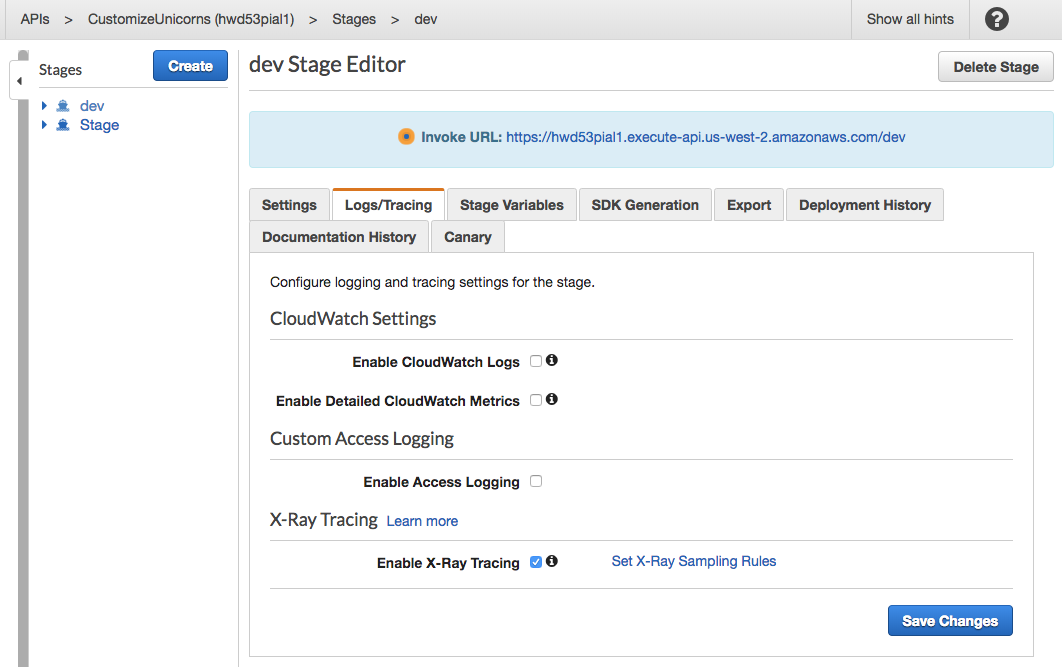
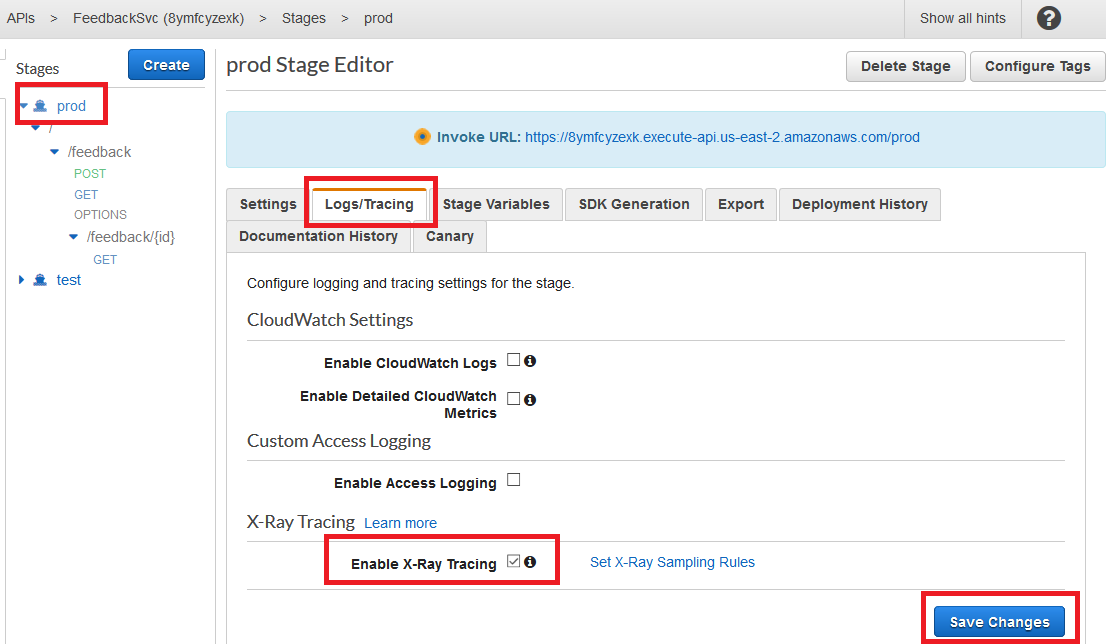
move x-ray up

Changed region(s): [[0.1864, 0.0, 1.0, 0.9317], [0.0, 0.0, 0.404, 1.0], [0.8079, 0.9006, 0.9944, 1.0]]

diff --git a/docs/xray.md b/docs/xray.md
@@ -3,121 +3,66 @@ Time Estimate: 10 - 15 minutes
 
 "Insufficient Logging & Monitoring" is one of the Top 10 Application Security Risks ranked by [OWASP](https://www.owasp.org/index.php/Main_Page) in 2017. 
 
+## Tracing via AWS X-Ray
 AWS X-Ray gives you visibility into the data flow of your microservices architecture and a map of how your application’s underlying components are connected. It's a great tool to troubleshoot performance and debug errors. However, given the ephemeral nature of the infrastructure in a serverless application, this visibility into your application is also critical for the purpose of security:
 
 * It helps you understand the "norm" of the data flow, interdependencies, and performance characteristics of your distributed serverless components. Knowing that is a prerequisite of recognoizing when things are not normal. 
 * During an security incident or post analysis, X-Ray can give you insights into what your code is doing at runtime, what downstream dependency it's making calls to, where the code is spending its time
  
 
-## Capturing AWS SDK requests with XRay
+## Capturing metrics with X-Ray
 
-When our applications makes calls to AWS services such as Secrets Manager, DynamoDB, S3 etc., the X-Ray SDK can help tracks the calls downstream and record the request timing, status, etc. about the AWS Service call. 
+When our applications makes calls to AWS services or databases etc., the X-Ray SDK can help to track the calls downstream and record the request timing, status, etc.
 
-To enable this, you can instrument all AWS SDK clients by wrapping your `aws-sdk` require statement in a call to `AWSXRay.captureAWS`
-	
-### Capturing AWS SDK requests in the Lambda authorizer
-	
-The Lambda authorizer you added in [**Module 1: Auth**](../01-add-authentication) uses the AWS SDK to look up values from a DynamoDB table. We can instrument the AWS SDK with X-Ray:
+To enable this, you can instrument your code to send the data to the X-Ray daemon.
 
-1. Install the XRay SDK in the `authorizer/` folder by running in a terminal
+Since our backend is a Java Spring boot application, we followed the steps at [AOP with Spring and the X-Ray SDK for Java](https://docs.aws.amazon.com/xray/latest/devguide/xray-sdk-java-aop-spring.html) to instrument our backend code.
 
-	```bash
-	cd	~/environment/aws-serverless-security-workshop/src/authorizer 
-	npm install aws-xray-sdk-core --save
-	```
-	
-1. In `authorizer/index.js`, find the line where the AWS SDK is imported: 
+If you have already downloaded the source code in the previous module, you can right click the __src__ folder for the backend code and search __xray__. You will have the follow search results. Feel free to double click the resutls and view the code.
 
-	```javascript
-	const AWS = require('aws-sdk');
-	```
-	
-	And replace it with:
-	
-	```javascript
-	const AWSXRay = require('aws-xray-sdk-core');
-	const AWS = AWSXRay.captureAWS(require('aws-sdk'));
-	```
+You can see we created the class XRayInspector and used __@XRayEnabled__ annotation to enable X-Ray tracing. X-Ray tracing has a very low overhead. You can leave it enabled in most situations even for your production environment.
 
-### Capturing AWS SDK requests in the backend lambda functions
+![Cloud9 x-ray](../screenshots/xray-c9.png)
 
-<details>
-<summary><strong>If you haven't gone through Module 2: Secrets </strong></summary><p>
+**[Optional step: verify X-Ray daemon]**
 
-The backend lambda functions currently doesn't use the AWS SDK, so no additional action needed! 
+The X-Ray daemon has already been installed in the backend EC2 instance. We have added the IAM permission to allow the daemon sending data to the X-Ray service. You can verify if the daemon and application running via session manager.
 
-</details>
+1. Open session manager, which is under the [__AWS Systems Manager__ console](https://console.aws.amazon.com/systems-manager/session-manager/sessions)
 
-<details>
-<summary><strong>If you have gone through Module 2: Secrets </strong></summary><p>
+2. Click the button __Start session__
 
-If you have gone through [**Module 2: Secrets**](../02-add-secrets-manager), you would have added the AWS SDK to `dbUtils.js` so the code would retrieve the database username and password from [**AWS Secrets Manager**](https://aws.amazon.com/secrets-manager/)
+3. Select the __lab-backend__ instance and click __Start session__
 
-1. Install the XRay SDK in the `app/` folder by running in a terminal
-
-	```bash
-	cd	~/environment/aws-serverless-security-workshop/src/app 
-	npm install aws-xray-sdk-core --save
-	```
-	
-1. In `app/dbUtils.js`, find the line where the AWS SDK is imported: 
-
-	```javascript
-	const AWS = require('aws-sdk');
-	```
-	
-	And replace it with:
-	
-	```javascript
-	const AWSXRay = require('aws-xray-sdk-core');
-	const AWS = AWSXRay.captureAWS(require('aws-sdk'));
-	```
-
-
-</details>
-
-
-## Deploy changes and test
-
-1. In the terminal, validate the SAM template:
-
-	```
-	cd	~/environment/aws-serverless-security-workshop/src/
-	sam validate -t template.yaml
-	```
-
-1.  Deploy the updates:
-
-	```
-	 aws cloudformation package --output-template-file packaged.yaml --template-file template.yaml --s3-bucket $BUCKET --s3-prefix securityworkshop --region $REGION &&  aws cloudformation  deploy --template-file packaged.yaml --stack-name CustomizeUnicorns --region $REGION --parameter-overrides InitResourceStack=Secure-Serverless --capabilities CAPABILITY_IAM
-	```
-
-1. Once the deployment finishes, test making API requests again with postman. 
-
-1. Go to the [**X-Ray console**](https://console.aws.amazon.com/xray/home), go to the **Service map** tab and refresh. You should start seeing some lambda requests getting captured! 
-
+4. Run the command
+```bash
+ps aux|egrep 'java|xray'
+```
+5. You should be able to see result like the following:
+![Sessoin PS](../screenshots/session-ps.png)
 
 ## Enable X-Ray on API Gateway
 
-1. Go to [API Gateway Console](https://.console.aws.amazon.com/apigateway/home), and go to the `CustomizeUnicorns` API
+1. Go to [API Gateway Console](https://console.aws.amazon.com/apigateway/home), and go to the `FeedbackSvc` API
 
-1. Go to the **Stages** tab, click on the `dev` stage
+1. Go to the **Stages** tab, click on the `prod` stage
 
 1. Find the **Logs/Tracing** tab, check the box for **Enable X-Ray Tracing**, and **Save changes** 
 
 	![enable xray in api gateway](images/8E-enable-apig.png)
 	
-1. Redeploy the API by clicking on the **Resources** tab on the left hand side --> **Actions**  --> **Deploy API**  -> Pick the `dev` stage --> **deploy**. 
+1. Redeploy the API by clicking on the **Resources** tab on the left hand side --> **Actions**  --> **Deploy API**  -> Pick the `prod` stage --> **deploy**. 
 
-1. Test making a few making API requests with postman. 
+1. Test by making a few API requests with curl or your browser, for example:
+```bash
+curl -s $BASE_URL/feedback | jq
+```
 
-1. Go to the [**X-Ray console**](https://console.aws.amazon.com/xray/home), go to the **Service map** tab and refresh 
+1. Go to the [**X-Ray console**](https://console.aws.amazon.com/xray/home), go to the **Service map** tab and refresh
 
 	![enable xray in api gateway](images/8E-service-map.png)
 
-1. Explore the service map. Click on various components, and use **View traces** to see a list of request traces captured by X-Ray 
-
-	![enable xray in api gateway](images/8E-traces.png)
+1. Explore the service map. Click on various components, and use **View traces** to see a list of request traces captured by X-Ray
 
 1. Explore the individual traces by clicking into individual rquests
 

diff --git a/docs/input-validation.md b/docs/input-validation.md
@@ -109,12 +109,13 @@ Use curl, you can try making requests to the **POST /feedback** API using invali
 ### Wrong parameters = Invalid request:
 
 Here are some example request bodies that fail:
+!!! danger "Please replace the BASE_URL value with your invoke URL from the deployed stage."
 
 * Missing fields:
 
-```bash
-curl -X POST \
-https://wcl387700f.execute-api.us-east-2.amazonaws.com/prod/feedback \
+```bash hl_lines="1"
+export BASE_URL=https://8ymfcyzexk.execute-api.us-east-2.amazonaws.com/prod
+curl -X POST $BASE_URL/feedback \
 -H "Content-Type: application/json" \
 --data @- <<REQUEST_BODY
 	{  
@@ -127,8 +128,7 @@ REQUEST_BODY
 * The `imageUrl` not a valid URL:
 
 ```bash
-curl -X POST \
-https://wcl387700f.execute-api.us-east-2.amazonaws.com/prod/feedback \
+curl -X POST $BASE_URL/feedback \
 -H "Content-Type: application/json" \
 --data @- <<REQUEST_BODY
 	{  
@@ -143,12 +143,11 @@ REQUEST_BODY
 * The `star ` parameter is not a number
 
 ```bash
-curl -X POST \
-https://wcl387700f.execute-api.us-east-2.amazonaws.com/prod/feedback \
+curl -X POST $BASE_URL/feedback \
 -H "Content-Type: application/json" \
 --data @- <<REQUEST_BODY
 	{  
-	   "name":"test unicorn",
+	   "name":"test user",
 	   "imageUrl":"https://en.wikipedia.org/wiki/Unicorn#/media/File:Oftheunicorn.jpg",
 	   "comment": "It is a test" ,
 	   "star": "4a"
@@ -169,15 +168,14 @@ You should get a 400 Bad Request response:
 Testing the **POST /feedback** API with right parameters:
 
 ```bash
-curl -X POST \
-https://wcl387700f.execute-api.us-east-2.amazonaws.com/prod/feedback \
+curl -X POST $BASE_URL/feedback \
 -H "Content-Type: application/json" \
 --data @- <<REQUEST_BODY
 	{  
-	   "name":"test unicorn",
-     "imageUrl":"https://en.wikipedia.org/wiki/Unicorn#/media/File:Oftheunicorn.jpg",
-     "comment": "It is a test" ,
-     "star": 4
+	  "name":"test user",
+    "imageUrl":"https://en.wikipedia.org/wiki/Unicorn#/media/File:Oftheunicorn.jpg",
+    "comment": "It is a test" ,
+    "star": 4
 	}
 REQUEST_BODY
 ```

diff --git a/docs/webui.md b/docs/webui.md
@@ -7,9 +7,9 @@ In this module, we will download the source code for the frontend web UI of our 
 In your Cloud9 terminal, download the source code for our frontend web UI by running the following commands:
 
 ```bash
-  aws s3 cp s3://shenx-demo-public/workshop/feedback-ui.tar.gz /tmp/
+  aws s3 cp s3://workshop.reinforce.awsdemo.me/feedback-src.tar.gz /tmp/
   cd ~/environment/
-  tar xvfz /tmp/feedback-ui.tar.gz
+  tar xvfz /tmp/feedback-src.tar.gz
 ```
 
 ### Build the code
@@ -18,8 +18,6 @@ Now upgrade Node.js and build the code with the following commands:
 
 ```bash
 cd feedback-ui
-nvm install 8.12.0
-nvm use 8.12.0
 npm install
 npm run build
 
